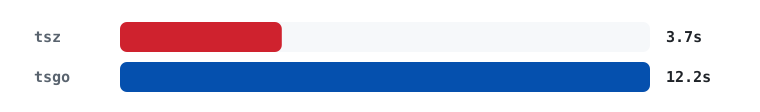
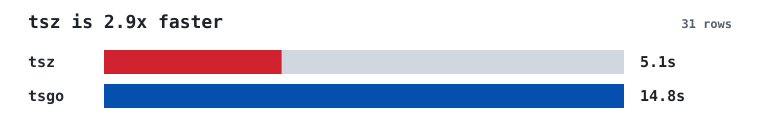
style(readme): sharpen performance chart image

diff --git a/crates/tsz-website/static/style.css b/crates/tsz-website/static/style.css
@@ -967,25 +967,6 @@ tr:nth-child(even) { background: var(--table-stripe); }
 
 .benchmark-mean-card {
   margin: 1.25rem 0 2rem;
-  padding: 1rem;
-  border: 1px solid var(--border-subtle);
-  border-radius: 0;
-  background: var(--bg);
-  color: var(--text);
-  letter-spacing: 0;
-  text-rendering: geometricPrecision;
-}
-
-@media (prefers-color-scheme: dark) {
-  .benchmark-mean-card {
-    background: #0d1117;
-    border-color: #30363d;
-  }
-}
-
-.benchmark-mean-card .bench-category-desc {
-  color: var(--text);
-  font-weight: 500;
 }
 
 .benchmark-mean-card .bench-bar-row {
@@ -996,36 +977,6 @@ tr:nth-child(even) { background: var(--table-stripe); }
 .benchmark-mean-card .bench-bar {
   width: var(--bench-bar-width);
   min-width: 0;
-  border-radius: 0;
-}
-
-.benchmark-mean-card .bench-bar-label,
-.benchmark-mean-card .bench-bar-value,
-.benchmark-mean-card .bench-winner {
-  -webkit-font-smoothing: antialiased;
-  color: var(--text);
-  font-weight: 700;
-  letter-spacing: 0;
-}
-
-.benchmark-mean-card .bench-bar-value {
-  color: #ffffff;
-}
-
-.benchmark-mean-card .bench-winner {
-  color: var(--success);
-  font-size: 0.88rem;
-}
-
-@media (prefers-color-scheme: dark) {
-  .benchmark-mean-card .bench-category-desc,
-  .benchmark-mean-card .bench-bar-label {
-    color: #f0f6fc;
-  }
-
-  .benchmark-mean-card .bench-winner {
-    color: #56d364;
-  }
 }
 
 .benchmark-links-block {

diff --git a/crates/tsz-website/src/_data/benchmark_mean_chart.js b/crates/tsz-website/src/_data/benchmark_mean_chart.js
@@ -102,10 +102,10 @@ function formatSpeedupLabel(tszMs, tsgoMs) {
   if (!Number.isFinite(tszMs) || !Number.isFinite(tsgoMs) || tszMs <= 0) return "";
 
   if (tszMs < tsgoMs) {
-    return `tsz is ${formatRatio(tsgoMs / tszMs)}x faster`;
+    return `tsz ${formatRatio(tsgoMs / tszMs)}x faster`;
   }
   if (tsgoMs > 0) {
-    return `tsgo is ${formatRatio(tszMs / tsgoMs)}x faster`;
+    return `tsgo ${formatRatio(tszMs / tsgoMs)}x faster`;
   }
   return "";
 }
